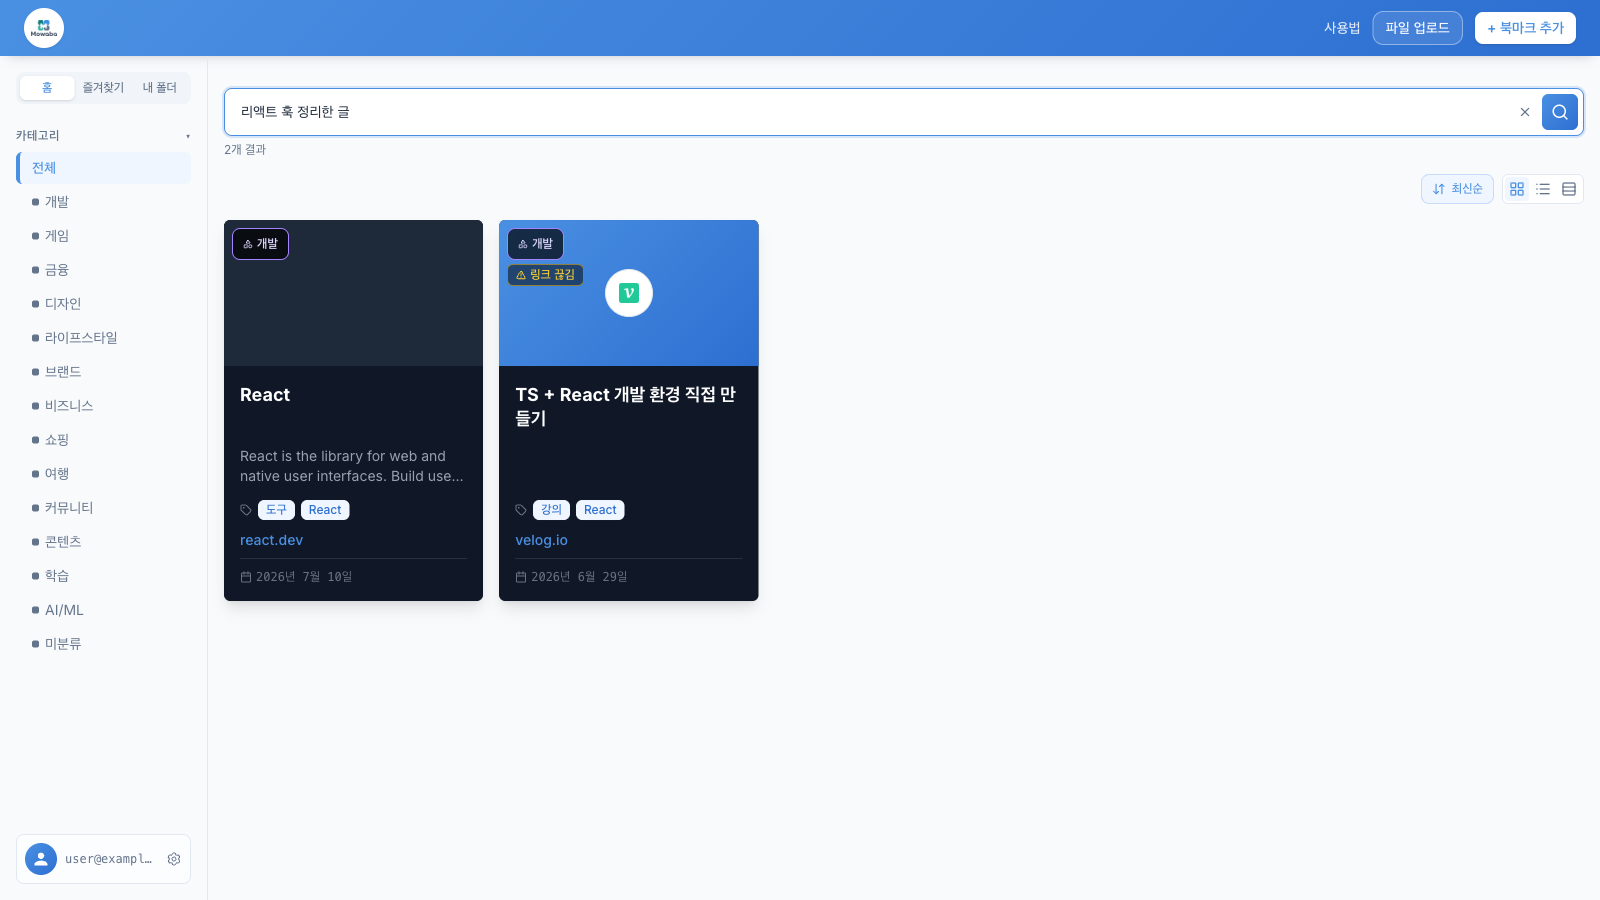
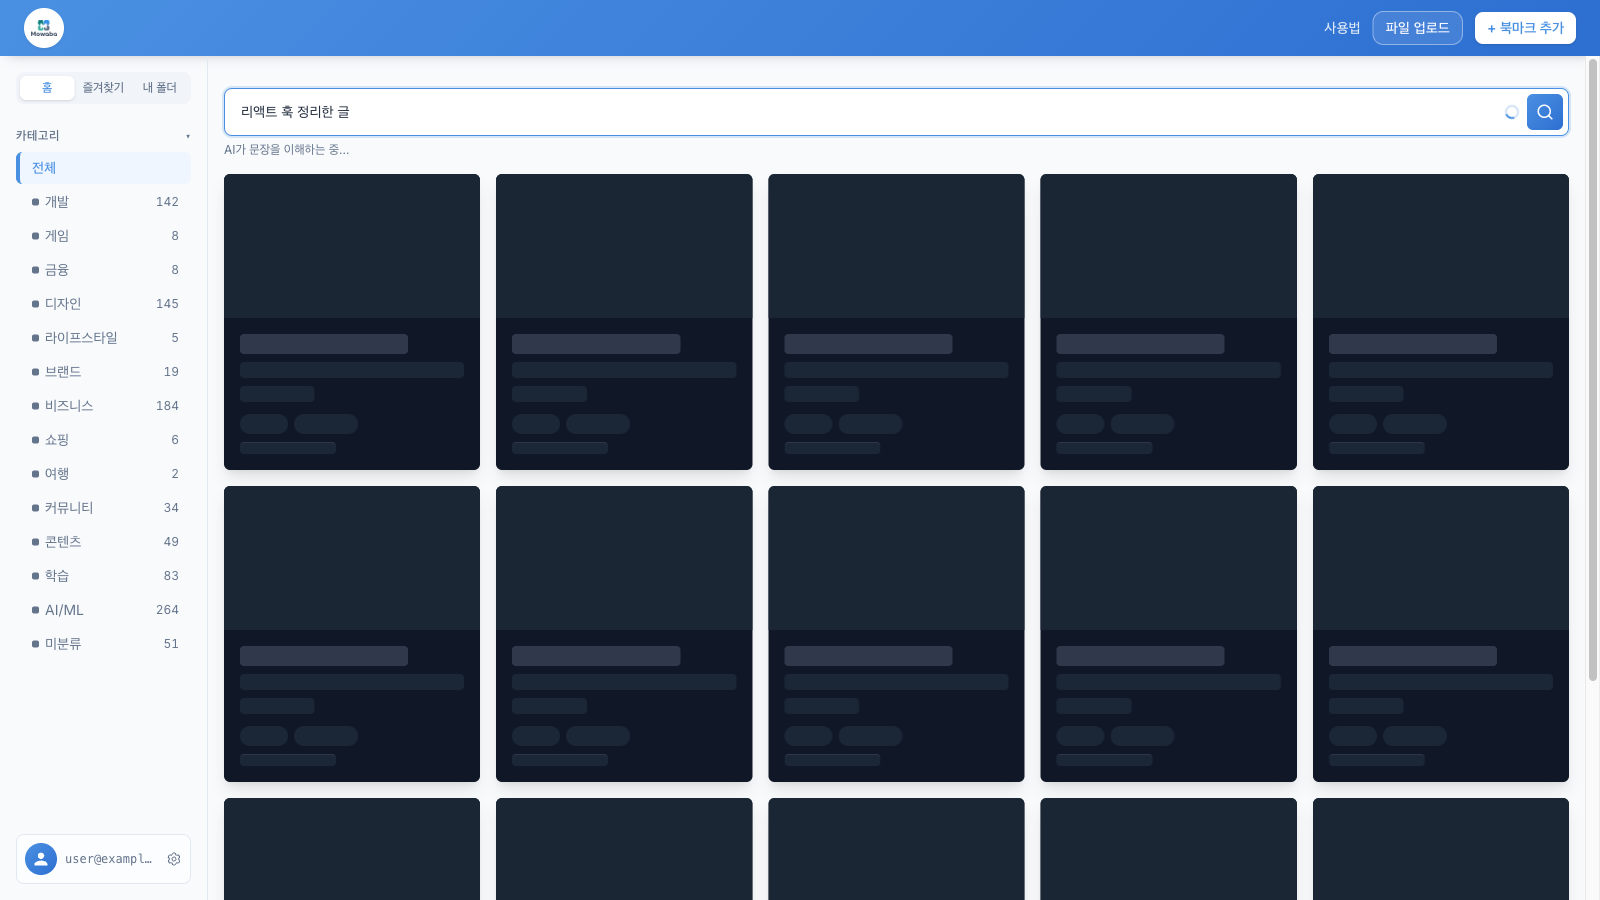
docs(발표자료): 사이드바 개수 반영된 실서버 화면으로 캡처 갱신
PR #360 배포로 사이드바에 카테고리별 건수가 노출된다. 발표자료 캡처는
그 이전 화면이라 실제와 어긋났다.

- app-list·app-search·app-category: 배포 후 프로덕션에서 재촬영
  (개발 142 · 디자인 145 · AI/ML 264 · 미분류 51 등 건수 노출)
- 화면 ① pill에 '건수 표시' 추가

diff --git a/docs/service-plan-presentation.html b/docs/service-plan-presentation.html
@@ -1713,7 +1713,7 @@
           />
           <div class="pills reveal" style="--i: 4">
             <span class="pill blue">그리드 · 리스트 · 컴팩트 3종 뷰</span>
-            <span class="pill mint">사이드바 대분류 13종</span>
+            <span class="pill mint">사이드바 대분류 13종 · 건수 표시</span>
             <span class="pill">총 1,002건 · 무한 스크롤</span>
           </div>
         </div>
